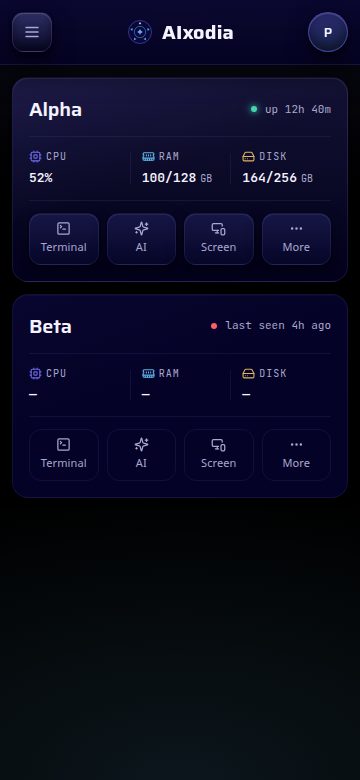
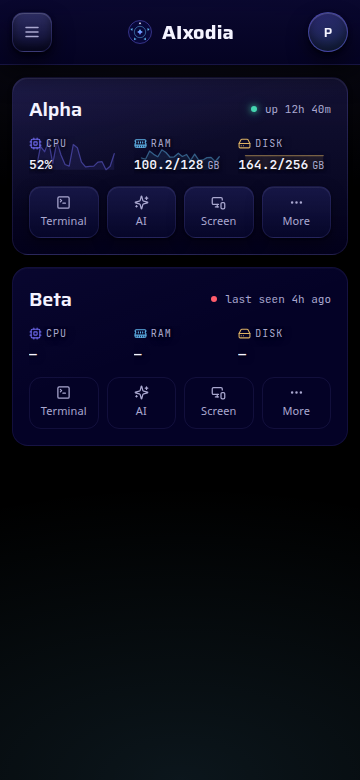
Drop the metric frames and let the gap do the separating
The three readings no longer each carry a border, radius and padding; the grid gap
alone divides them. Their values gained the reclaimed width, so the value scale
relaxes slightly, and the small-viewport padding fallback is deleted since there
is no padding left to give up.

Audits clean at 320 through 1440.

Changed region(s): [[0.0306, 0.1538, 0.9778, 0.6462]]

diff --git a/src/mock/mock.css b/src/mock/mock.css
@@ -390,25 +390,18 @@ button:disabled { cursor: not-allowed; }
   /* Equal thirds: a reading that is wider than its panel is worse than one a
      little smaller, so the value below scales with the viewport instead. */
   grid-template-columns: repeat(3, minmax(0, 1fr));
-  gap: var(--s2);
-  /* Panels carry their own frames, so a rule above them only adds a third line to
-     a card that already has two. */
+  gap: var(--s3);
   margin-top: var(--s3);
 }
 
-/* Each reading is its own framed panel, so the chart inside it has an edge and a
-   margin to breathe in instead of running into its neighbour. */
+/* No frame: the columns are held apart by the gap alone, so the reading and its
+   history keep the whole third of the card. */
 .metric {
   position: relative;
   display: flex;
   flex-direction: column;
   gap: var(--s1);
   min-width: 0;
-  padding: var(--s2);
-  /* An outline only: with no fill behind it the frame has to carry the panel on
-     its own, so it uses the stronger border rather than the hairline. */
-  border: 1px solid var(--border);
-  border-radius: var(--s3);
   overflow: hidden;
 }
 
@@ -469,8 +462,8 @@ button:disabled { cursor: not-allowed; }
 
 .metric-value {
   font-family: var(--mono);
-  /* Fits "100.2/128 GB" in a third of a 360px card without clipping. */
-  font-size: clamp(11px, 3.2vw, var(--fs-body));
+  /* Fits "100.2/128 GB" in a third of the narrowest card without clipping. */
+  font-size: clamp(11.5px, 3.6vw, var(--fs-body));
   font-weight: 600;
   color: var(--text);
   white-space: nowrap;
@@ -544,13 +537,6 @@ button:disabled { cursor: not-allowed; }
   border-color: var(--hairline);
   box-shadow: none;
   color: var(--muted);
-}
-
-/* Below 355 there is not enough width for three panels at full size, so the
-   panels give up their side padding rather than clipping the readings. */
-@media (max-width: 355px) {
-  .metric { padding: var(--s2) var(--s1); }
-  .metric-value { font-size: 10px; }
 }
 
 @media (prefers-reduced-motion: reduce) {

diff --git a/docs/ux-visual/verification/mock.md b/docs/ux-visual/verification/mock.md
@@ -583,3 +583,15 @@ smaller than the other two.
 
 Audits clean at 320, 360, 390, 430 and 1440: no spills, no wrapped controls,
 `pageScrollY 0`.
+
+## Round 29 — no frames, only space
+
+The three readings lost their frames: `.metric` no longer draws a border, a radius
+or its own padding, so nothing but the grid gap (`12px`) separates CPU, RAM and
+DISK. The sparkline still runs behind each reading, now edge to edge in its third.
+
+With the panels' padding gone the readings gained 16px each, so the value scale
+relaxed from `clamp(11px, 3.2vw, …)` to `clamp(11.5px, 3.6vw, …)` and the
+`max-width: 355px` padding fallback was deleted — it had nothing left to reclaim.
+
+Audits clean at 320, 360, 390, 430 and 1440: no spills, `pageScrollY 0`.
